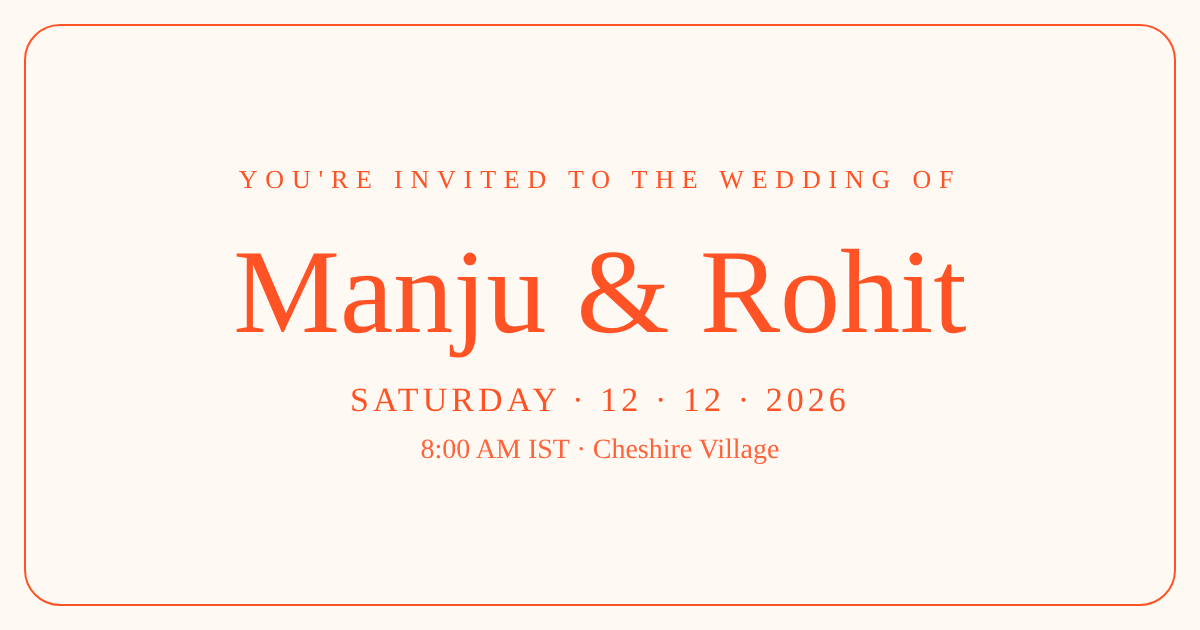
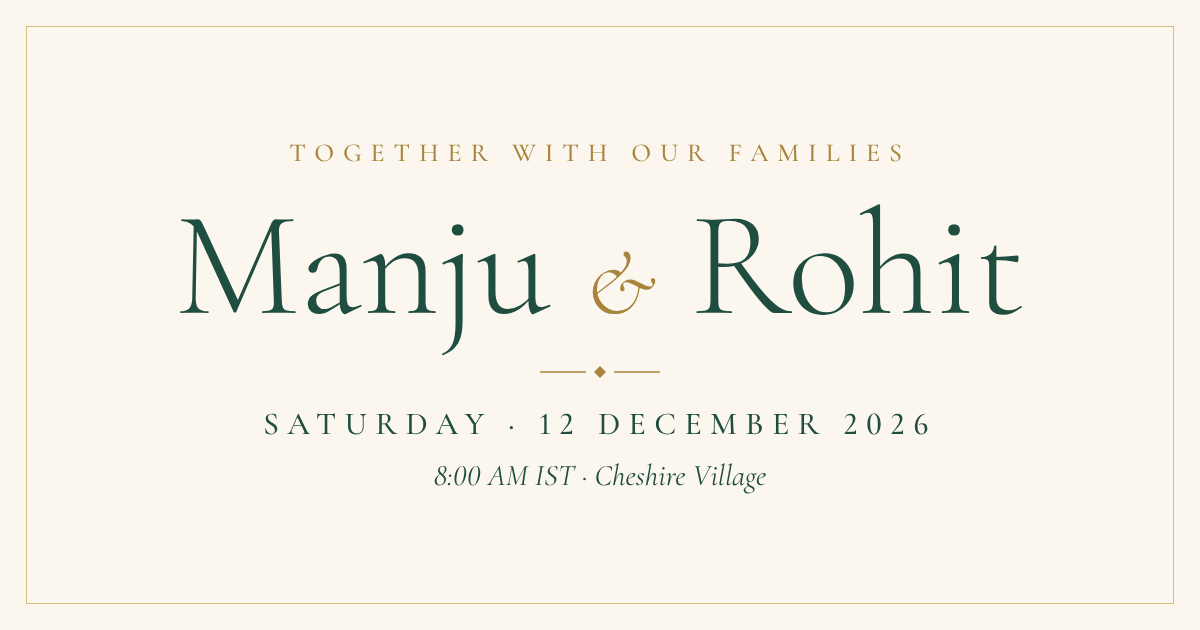
Switch to a more elegant theme

diff --git a/index.html b/index.html
@@ -5,7 +5,7 @@
 <meta name="viewport" content="width=device-width, initial-scale=1">
 <title>Manju &amp; Rohit are getting married</title>
 <meta name="description" content="Join us in celebrating the wedding of Manju &amp; Rohit. Saturday, 12 December 2026, 8:00 AM IST at Cheshire Village.">
-<meta name="theme-color" content="#ff5326">
+<meta name="theme-color" content="#1f4d3f">
 <link rel="icon" href="favicon.ico" sizes="any">
 <link rel="icon" type="image/svg+xml" href="favicon.svg">
 <link rel="icon" type="image/png" sizes="32x32" href="favicon-32x32.png">
@@ -22,130 +22,80 @@
 <meta name="twitter:title" content="Manju &amp; Rohit are getting married">
 <meta name="twitter:description" content="You're invited! Saturday, 12 December 2026 · 8:00 AM IST · Cheshire Village">
 <meta name="twitter:image" content="https://rohitporoli.github.io/12-12/og-image.png">
-<link href="https://fonts.googleapis.com/css2?family=Fraunces:ital,opsz,wght@0,9..144,300;0,9..144,400;1,9..144,300&display=swap" rel="stylesheet">
+<link href="https://fonts.googleapis.com/css2?family=Cormorant+Garamond:ital,wght@0,300;0,400;0,500;1,300;1,400&display=swap" rel="stylesheet">
 <style>
-:root{--cream:#fef9f3;--coral:#ff5326;--peach:#ffdcc9;--deep:#e8441a}
+:root{--ivory:#fbf7ef;--green:#1f4d3f;--gold:#a8843c;--lgold:#d9bd7c}
 *{box-sizing:border-box;margin:0;padding:0}
 html,body{height:100%}
-body{font-family:'Fraunces',Georgia,'Times New Roman',serif;font-weight:300;background:var(--cream);color:var(--coral);overflow:hidden}
-.page{position:fixed;inset:0;opacity:0;visibility:hidden;transition:opacity .7s,visibility .7s;overflow-y:auto;background:var(--cream)}
+body{font-family:'Cormorant Garamond',Georgia,'Times New Roman',serif;font-weight:400;font-variant-numeric:lining-nums;font-feature-settings:'lnum' 1,'kern' 1;background:var(--ivory);color:var(--green);overflow:hidden}
+.page{position:fixed;inset:0;opacity:0;visibility:hidden;transition:opacity .8s,visibility .8s;overflow:hidden auto;background:var(--ivory)}
 .page.active{opacity:1;visibility:visible}
-.page.orange{background:var(--coral);color:var(--cream)}
-.full{min-height:100%;display:flex;flex-direction:column;align-items:center;justify-content:center;text-align:center;padding:48px 28px 100px}
-.small{font-size:.8rem;letter-spacing:.2em;text-transform:uppercase}
-h1{font-weight:300;font-size:clamp(2.6rem,9vw,5rem);line-height:1.1;margin:22px 0}
-h2{font-weight:300;font-size:clamp(1.8rem,5vw,2.6rem);line-height:1.15}
-p{font-size:1.05rem;line-height:1.7;max-width:34ch;margin:8px auto}
-.split{min-height:100%;display:grid;grid-template-columns:1fr 1fr}
-.art{background:var(--peach);display:flex;align-items:center;justify-content:center;min-height:100%}
-.orange .art{background:var(--deep)}
-.art svg{width:min(60%,300px);height:auto}
-.txt{display:flex;flex-direction:column;justify-content:center;padding:48px 8vw 100px}
-.center{align-items:center;text-align:center}
-.btn{display:inline-block;margin-top:22px;padding:9px 26px;border:1px solid currentColor;border-radius:3px;background:transparent;color:inherit;font:inherit;font-size:.8rem;letter-spacing:.18em;text-transform:uppercase;text-decoration:none;cursor:pointer;transition:.25s;align-self:flex-start}
-.center .btn{align-self:center}
-.btn:hover{background:var(--coral);color:var(--cream)}
-.orange .btn:hover,.grad .btn:hover{background:var(--cream);color:var(--coral)}
-.block{margin:18px 0}
-.block h2{margin-bottom:8px}
-.cols{display:flex;gap:4vw;justify-content:center;margin:40px 0 10px;width:100%;max-width:900px}
-.col{flex:1;display:flex;flex-direction:column;align-items:center}
-.col svg{width:48px;height:48px;fill:none;stroke:currentColor;stroke-width:1.4;stroke-linecap:round;stroke-linejoin:round;margin-bottom:12px}
-.col h2{font-size:1.6rem;font-style:italic;margin-bottom:8px}
-.col p{font-size:1.05rem;line-height:1.6;max-width:none}
-.btn.fill{background:var(--coral);color:var(--cream);border-color:var(--coral)}
-.btn.fill:hover{background:var(--deep)}
-.col .btn{padding:7px 12px;font-size:.62rem;letter-spacing:.12em}
-.grad{background:linear-gradient(160deg,#ff5326,#ff8b5e 60%,#ffb48c);color:var(--cream)}
-.date{font-size:clamp(3rem,12vw,6rem);font-weight:300;margin:14px 0}
-.rsvp{width:100%;max-width:300px;margin-top:10px}
-.rsvp input,.rsvp select{width:100%;padding:11px 4px;margin:6px 0;border:none;border-bottom:1px solid rgba(254,249,243,.7);background:transparent;color:var(--cream);font:inherit;font-size:1.05rem;border-radius:0;outline:none}
-.rsvp input::placeholder{color:rgba(254,249,243,.8)}
-.rsvp option{color:#333}
-.rsvp .btn{width:100%;margin-top:14px;background:var(--cream);color:var(--coral);border-color:var(--cream)}
-.rsvp .btn.ghost{background:transparent;color:var(--cream)}
-.rsvp .btn.ghost:hover{background:var(--cream);color:var(--coral)}
-.restart{margin-top:22px;background:none;border:none;color:var(--cream);cursor:pointer;display:inline-flex;align-items:center;gap:8px;font:inherit;font-size:.8rem;letter-spacing:.18em;text-transform:uppercase}
-.restart svg{width:20px;height:20px;fill:none;stroke:currentColor;stroke-width:2;stroke-linecap:round;stroke-linejoin:round}
-.nav{position:fixed;right:24px;bottom:24px;width:52px;height:52px;border-radius:50%;border:1.5px solid var(--coral);background:var(--cream);color:var(--coral);cursor:pointer;display:flex;align-items:center;justify-content:center;z-index:5;box-shadow:0 4px 14px rgba(0,0,0,.15)}
-.nav svg{width:24px;height:24px;fill:none;stroke:currentColor;stroke-width:2;stroke-linecap:round;stroke-linejoin:round}
+.page.dark{background:var(--green);color:var(--ivory)}
+.wrap{min-height:100%;display:flex;flex-direction:column;align-items:center;justify-content:center;text-align:center;padding:48px 28px 110px}
+.cap{font-size:.95rem;letter-spacing:.3em;text-transform:uppercase;font-weight:500}
+.gold{color:var(--gold)}.dark .gold{color:var(--lgold)}
+.names{font-weight:300;font-size:clamp(4rem,min(17vw,13vh),7.5rem);line-height:.95;margin:22px 0 12px}
+.names i{display:block;font-size:.5em;color:var(--gold);margin:4px 0 6px}
+.h{font-weight:300;font-size:clamp(2.4rem,min(9vw,8vh),3.8rem);line-height:1.08}
+.orn{width:120px;height:12px;color:var(--gold);margin:22px auto;display:block}
+.dark .orn{color:var(--lgold)}
+.val{font-size:clamp(1.8rem,6vw,2.3rem);font-weight:400;line-height:1.2;margin-top:6px}
+.txt{font-size:1.3rem;font-style:italic;max-width:26ch;margin:0 auto}
+.btns{display:flex;gap:14px;flex-wrap:wrap;justify-content:center;margin-top:30px}
+.btn{display:inline-block;padding:13px 30px;border:1px solid var(--green);border-radius:40px;background:transparent;color:var(--green);font:inherit;font-weight:500;font-size:.95rem;letter-spacing:.2em;text-transform:uppercase;text-decoration:none;cursor:pointer;transition:.25s}
+.btn.fill{background:var(--green);color:var(--ivory)}
+.btn:hover{opacity:.8}
+.rsvp{width:100%;max-width:340px;margin-top:26px}
+.rsvp input{width:100%;padding:12px 4px;border:none;border-bottom:1px solid var(--lgold);background:transparent;color:var(--ivory);font:inherit;font-size:1.4rem;text-align:center;outline:none;border-radius:0}
+.rsvp input::placeholder{color:rgba(251,247,239,.65)}
+.rsvp .btn{width:100%;margin-top:16px;border-color:var(--ivory);color:var(--ivory)}
+.rsvp .btn.yes{background:var(--ivory);color:var(--green)}
+.restart{margin-top:26px;background:none;border:none;color:var(--lgold);cursor:pointer;display:inline-flex;align-items:center;gap:8px;font:inherit;font-weight:500;font-size:.9rem;letter-spacing:.24em;text-transform:uppercase}
+.restart svg{width:20px;height:20px;fill:none;stroke:currentColor;stroke-width:1.6;stroke-linecap:round;stroke-linejoin:round}
+.rise{opacity:0;transform:translateY(14px)}
+.page.active .rise{animation:rise 1s ease forwards;animation-delay:var(--d,0s)}
+@keyframes rise{to{opacity:1;transform:none}}
+.nav{position:fixed;right:24px;bottom:28px;width:52px;height:52px;border-radius:50%;border:1px solid var(--gold);background:var(--green);color:var(--ivory);cursor:pointer;display:flex;align-items:center;justify-content:center;z-index:5}
+.nav svg{width:22px;height:22px;fill:none;stroke:currentColor;stroke-width:1.8;stroke-linecap:round;stroke-linejoin:round}
 .nav.hidden{display:none}
-@media(max-width:700px){
-  .split{grid-template-columns:1fr;grid-template-rows:36% 1fr}
-  .art{min-height:0}.art svg{width:min(46%,170px)}
-  .txt{padding:32px 28px 100px}
-  .cols{flex-direction:column;gap:30px;margin-top:30px}
-}
-
-.page.details{background:var(--cream);color:var(--coral)}
-.dt{min-height:100%;display:flex;flex-direction:column;align-items:center;text-align:center;padding:60px 28px 110px;font-weight:300}
-.dt-title{font-weight:300;font-size:clamp(2.8rem,8vw,4.4rem);line-height:1.1}
-.dt-sub{font-size:.8rem;letter-spacing:.2em;text-transform:uppercase;margin:18px auto 0;max-width:none}
-.dt-cols{display:flex;justify-content:center;gap:5vw;width:100%;max-width:1000px;margin-top:52px}
-.dt-col{flex:1}
-.dt-col svg{width:54px;height:54px;fill:none;stroke:currentColor;stroke-width:1.3;stroke-linecap:round;stroke-linejoin:round}
-.dt-col h3{font-weight:300;font-size:1.9rem;margin:14px 0 10px}
-.dt-col p{font-size:1.1rem;line-height:1.7;max-width:none;margin:0}
-.dt-note{font-size:1.1rem;max-width:none;margin:52px auto 0}
-.dt-btns{display:flex;gap:16px;justify-content:center;flex-wrap:wrap;margin-top:20px}
-.dt-btn{display:inline-block;padding:10px 26px;border:1px solid var(--coral);border-radius:3px;background:transparent;color:var(--coral);font:inherit;font-size:.8rem;letter-spacing:.18em;text-transform:uppercase;text-decoration:none;cursor:pointer;transition:.25s}
-.dt-btn.fill,.dt-btn:hover{background:var(--coral);color:var(--cream)}
-.dt-btn.fill:hover{background:var(--deep)}
-@media(max-width:700px){
-  .dt{padding-top:48px}
-  .dt-cols{flex-direction:column;gap:34px;margin-top:38px}
-  .dt-col h3{font-size:1.7rem}
-  .dt-note{margin-top:38px}
-}
+@media(max-width:480px){.cap{font-size:.82rem;letter-spacing:.2em}.wrap{padding-top:40px}}
 </style>
 </head>
 <body>
 
-<!-- 1 Cover -->
-<section class="page active"><div class="full">
-  <div class="small">12 . 12 . 2026</div>
-  <h1>Manju &amp; Rohit</h1>
-  <p class="small" style="font-size:.7rem">Together with their families<br>invite you to their wedding</p>
+<section class="page active"><div class="wrap">
+  <div class="cap gold rise" style="--d:.2s">Together with our families</div>
+  <h1 class="names rise" style="--d:.5s">Manju<i>&amp;</i>Rohit</h1>
+  <svg class="orn" viewBox="0 0 120 12"><path d="M0 6H46M74 6H120" stroke="currentColor" stroke-width="1"/><path d="M60 1L65 6L60 11L55 6Z" fill="currentColor"/></svg>
+  <div class="cap rise" style="--d:1.1s">Saturday · 12 December 2026</div>
+  <p class="txt rise" style="--d:1.3s;margin-top:14px">invite you to celebrate their wedding</p>
 </div></section>
 
-<!-- 2 You're invited -->
-<section class="page"><div class="split">
-  <div class="art"><svg viewBox="0 0 200 260" fill="none" stroke="#ff5326" stroke-width="1.4"><path d="M20 250V110a80 80 0 0 1 160 0v140z"/><path d="M45 250V115a55 55 0 0 1 110 0v135z"/><text x="100" y="160" text-anchor="middle" font-size="40" font-style="italic" fill="#ff5326" stroke="none" font-family="Georgia,serif">M&amp;R</text></svg></div>
-  <div class="txt">
-    <h1 style="font-size:clamp(2.4rem,6vw,4rem);margin-top:0">You're<br>invited!</h1>
-    <p style="margin-left:0">We're tying the knot, and we'd love for you to be there as we begin this new chapter together.</p>
-    <button class="btn" id="goRsvp">RSVP</button>
+<section class="page"><div class="wrap">
+  <div class="cap gold rise" style="--d:.1s">Join us for the celebration</div>
+  <h2 class="h rise" style="--d:.3s;margin-top:14px">The Details</h2>
+  <svg class="orn" viewBox="0 0 120 12"><path d="M0 6H46M74 6H120" stroke="currentColor" stroke-width="1"/><path d="M60 1L65 6L60 11L55 6Z" fill="currentColor"/></svg>
+  <div class="rise" style="--d:.5s"><div class="cap gold">The day</div><div class="val">Saturday, 12 December 2026</div></div>
+  <svg class="orn" viewBox="0 0 120 12"><path d="M0 6H46M74 6H120" stroke="currentColor" stroke-width="1"/><path d="M60 1L65 6L60 11L55 6Z" fill="currentColor"/></svg>
+  <div class="rise" style="--d:.7s"><div class="cap gold">The time</div><div class="val">8:00 AM IST</div></div>
+  <svg class="orn" viewBox="0 0 120 12"><path d="M0 6H46M74 6H120" stroke="currentColor" stroke-width="1"/><path d="M60 1L65 6L60 11L55 6Z" fill="currentColor"/></svg>
+  <div class="rise" style="--d:.9s"><div class="cap gold">The place</div><div class="val">Cheshire Village</div></div>
+  <div class="btns rise" style="--d:1.1s">
+    <a class="btn fill" href="https://maps.app.goo.gl/ZJtv7buVNM3VMAvv9" target="_blank" rel="noopener">Open in Google Maps</a>
+    <button class="btn" id="saveDate">Save the date</button>
   </div>
 </div></section>
 
-<!-- 3 The details -->
-<section class="page details"><div class="dt">
-  <h2 class="dt-title">The details</h2>
-  <p class="dt-sub">Everything you need to know</p>
-  <div class="dt-cols">
-    <div class="dt-col"><svg viewBox="0 0 24 24"><rect x="3" y="5" width="18" height="16" rx="1.5"/><path d="M8 3v3M16 3v3M3 9h18"/><path d="M12 18.4l-2.5-2.4a1.5 1.5 0 0 1 2.5-1.7 1.5 1.5 0 0 1 2.5 1.7z" stroke-width="1"/></svg><h3>The day</h3><p>Saturday</p><p>12 December 2026</p></div>
-    <div class="dt-col"><svg viewBox="0 0 24 24"><circle cx="12" cy="12" r="9.5"/><path d="M12 6.5v5.5l-2.5-1.5"/></svg><h3>The time</h3><p>Event starts at</p><p>8:00 AM IST</p></div>
-    <div class="dt-col"><svg viewBox="0 0 24 24"><path d="M12 20.5s-7-6.3-7-11.5a7 7 0 0 1 14 0c0 5.2-7 11.5-7 11.5z"/><circle cx="12" cy="9" r="2.4"/><path d="M10 22.5h4"/></svg><h3>The place</h3><p>Cheshire Village</p></div>
-  </div>
-  <p class="dt-note">We can't wait to celebrate with you.</p>
-  <div class="dt-btns">
-    <a class="dt-btn fill" href="https://maps.app.goo.gl/ZJtv7buVNM3VMAvv9" target="_blank" rel="noopener">Open in Google Maps</a>
-    <button class="dt-btn" id="saveDate">Save the date</button>
-  </div>
-</div></section>
-
-<!-- 5 Date + RSVP -->
-<section class="page grad"><div class="full">
-  <div class="date">12.12.2026</div>
-  <div class="small">Saturday · 8:00 AM IST</div>
-  <div class="rsvp">
+<section class="page dark"><div class="wrap">
+  <div class="cap gold rise" style="--d:.1s">Kindly reply</div>
+  <h2 class="h rise" style="--d:.3s;margin-top:14px">Will you join us?</h2>
+  <svg class="orn" viewBox="0 0 120 12"><path d="M0 6H46M74 6H120" stroke="currentColor" stroke-width="1"/><path d="M60 1L65 6L60 11L55 6Z" fill="currentColor"/></svg>
+  <div class="rsvp rise" style="--d:.6s">
     <input id="name" type="text" placeholder="Your name" autocomplete="name">
-    <button class="btn" id="yes">Joyfully accepts</button>
-    <button class="btn ghost" id="no">Regretfully declines</button>
+    <button class="btn yes" id="yes">Joyfully accepts</button>
+    <button class="btn" id="no">Regretfully declines</button>
   </div>
-  <button class="restart" id="restart" aria-label="Start over">
-    <svg viewBox="0 0 24 24"><path d="M21 12a9 9 0 1 1-3-6.7"/><path d="M21 3v6h-6"/></svg> Start over
-  </button>
+  <button class="restart rise" style="--d:.9s" id="restart" aria-label="Start over"><svg viewBox="0 0 24 24"><path d="M21 12a9 9 0 1 1-3-6.7"/><path d="M21 3v6h-6"/></svg> Start over</button>
 </div></section>
 
 <button class="nav" id="next" aria-label="Next"><svg viewBox="0 0 24 24"><path d="M9 5l7 7-7 7"/></svg></button>
@@ -159,15 +109,8 @@ p{font-size:1.05rem;line-height:1.7;max-width:34ch;margin:8px auto}
     nav.classList.toggle('hidden',n===last);
   }
   nav.addEventListener('click',function(){if(i<last)show(i+1)});
-  document.getElementById('saveDate').addEventListener('click',function(){
-    var ics=['BEGIN:VCALENDAR','VERSION:2.0','PRODID:-//Wedding Invite//EN','BEGIN:VEVENT','UID:manju-rohit-wedding-20261212@invite','DTSTAMP:20261112T000000Z','DTSTART:20261212T023000Z','DTEND:20261212T043000Z',"SUMMARY:Manju & Rohit's Wedding",'LOCATION:Cheshire Village','DESCRIPTION:Directions: https://maps.app.goo.gl/ZJtv7buVNM3VMAvv9','END:VEVENT','END:VCALENDAR'].join('\r\n');
-    var a=document.createElement('a');
-    a.href=URL.createObjectURL(new Blob([ics],{type:'text/calendar'}));
-    a.download='manju-rohit-wedding.ics';
-    document.body.appendChild(a);a.click();a.remove();
-  });
-  document.getElementById('goRsvp').addEventListener('click',function(){show(last)});
   document.getElementById('restart').addEventListener('click',function(){show(0)});
+
   function sendRsvp(attending){
     var name=document.getElementById('name').value.trim();
     if(!name){alert('Please enter your name.');return}
@@ -176,6 +119,14 @@ p{font-size:1.05rem;line-height:1.7;max-width:34ch;margin:8px auto}
   }
   document.getElementById('yes').addEventListener('click',function(){sendRsvp(true)});
   document.getElementById('no').addEventListener('click',function(){sendRsvp(false)});
+
+  document.getElementById('saveDate').addEventListener('click',function(){
+    var ics=['BEGIN:VCALENDAR','VERSION:2.0','PRODID:-//Wedding Invite//EN','BEGIN:VEVENT','UID:manju-rohit-wedding-20261212@invite','DTSTAMP:20261112T000000Z','DTSTART:20261212T023000Z','DTEND:20261212T043000Z',"SUMMARY:Manju & Rohit's Wedding",'LOCATION:Cheshire Village','DESCRIPTION:Directions: https://maps.app.goo.gl/ZJtv7buVNM3VMAvv9','END:VEVENT','END:VCALENDAR'].join('\r\n');
+    var a=document.createElement('a');
+    a.href=URL.createObjectURL(new Blob([ics],{type:'text/calendar'}));
+    a.download='manju-rohit-wedding.ics';
+    document.body.appendChild(a);a.click();a.remove();
+  });
 })();
 </script>
 </body>
